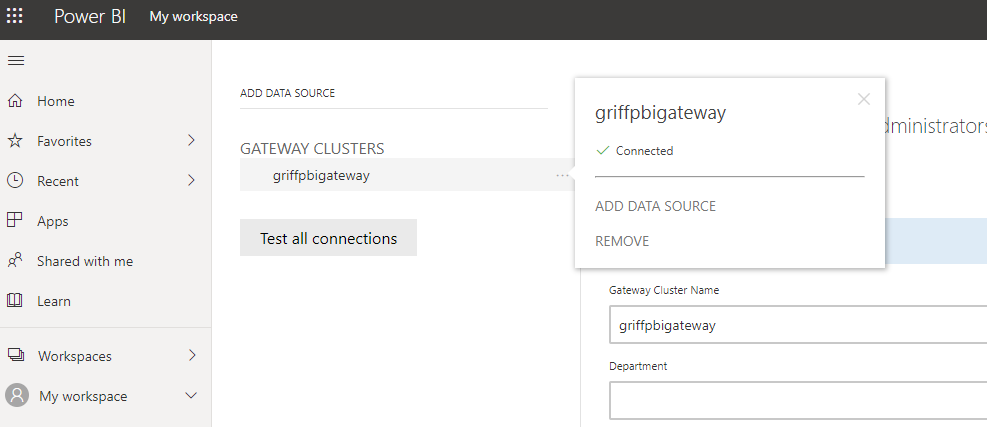
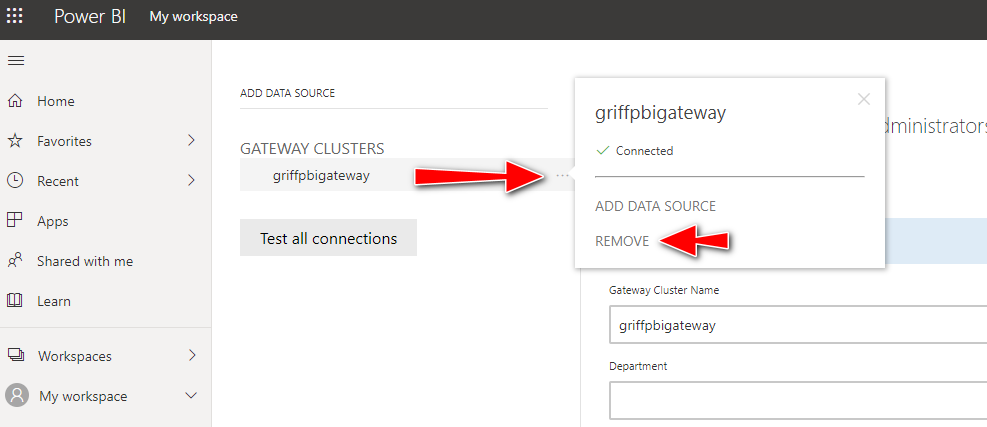
Additional troubleshooting tips

Changed region(s): [[0.3951, 0.3653, 0.5775, 0.4567], [0.6687, 0.5176, 0.7599, 0.6089]]

diff --git a/README.md b/README.md
@@ -32,7 +32,7 @@ Within VSCode, open the project within the devContainer.  Add your AAD Applicati
 
 `terraform apply -auto-approve -var admin_password={YOUR-PASSWORD} -var gateway_name={YOUR-GATEWAY-NAME} -var gateway_recovery_key={YOUR-GATEWAY-RECOVERY-KEY} -var gateway_admin_ids={AAD-USER-OBJECT-ID-GUID} -var gateway_region={AZURE-DATA-CENTER}`
 
-> Note: we have seen occasional issues with adding multiple gateway admins on the first run, so if you encounter any problems with users not being added as desired, see the troubleshooting section for tips on fixing this.
+> Note: If you encounter any problems with users not being added as desired, see the troubleshooting section for tips on fixing this.
 
 ## Power BI Data Gateway
 
@@ -69,7 +69,15 @@ Lastly, look in Event Viewer under 'Applications and Services Logs' - 'On-premis
 
 ### Gateway admins not being added
 
-You may find that when specifying multiple gateway admins as a parameter, the admin access is only applied to the first specified GUID. If this happens, first try deleting the gateway manually in the portal by hovering over the cluster and moving your cursor to the right-hand side until three dots appear:
+You may find that when specifying additional gateway admins they are not applied - this will be appear in the log as "Warning! Data Gateway admin user not added". If this happens, you can re-run just the CustomScriptExtension again by tainting the Terraform resource:
+
+`terraform taint azurerm_virtual_machine_extension.pbi_gateway_install`
+
+Then apply the terraform again, this doesn't need to re-provision the VM again so won't take long, it will just execute the scripts within the CustomScriptExtension.
+
+### Gateway not created
+
+If the Power BI Data Gateway fails to be created, it maybe because one has already been provisioned with the same name.  You can try deleting the gateway manually in the portal by hovering over the cluster and moving your cursor to the right-hand side until three dots appear:
 
 ![image](docs/pbigateway-remove.png)
 
